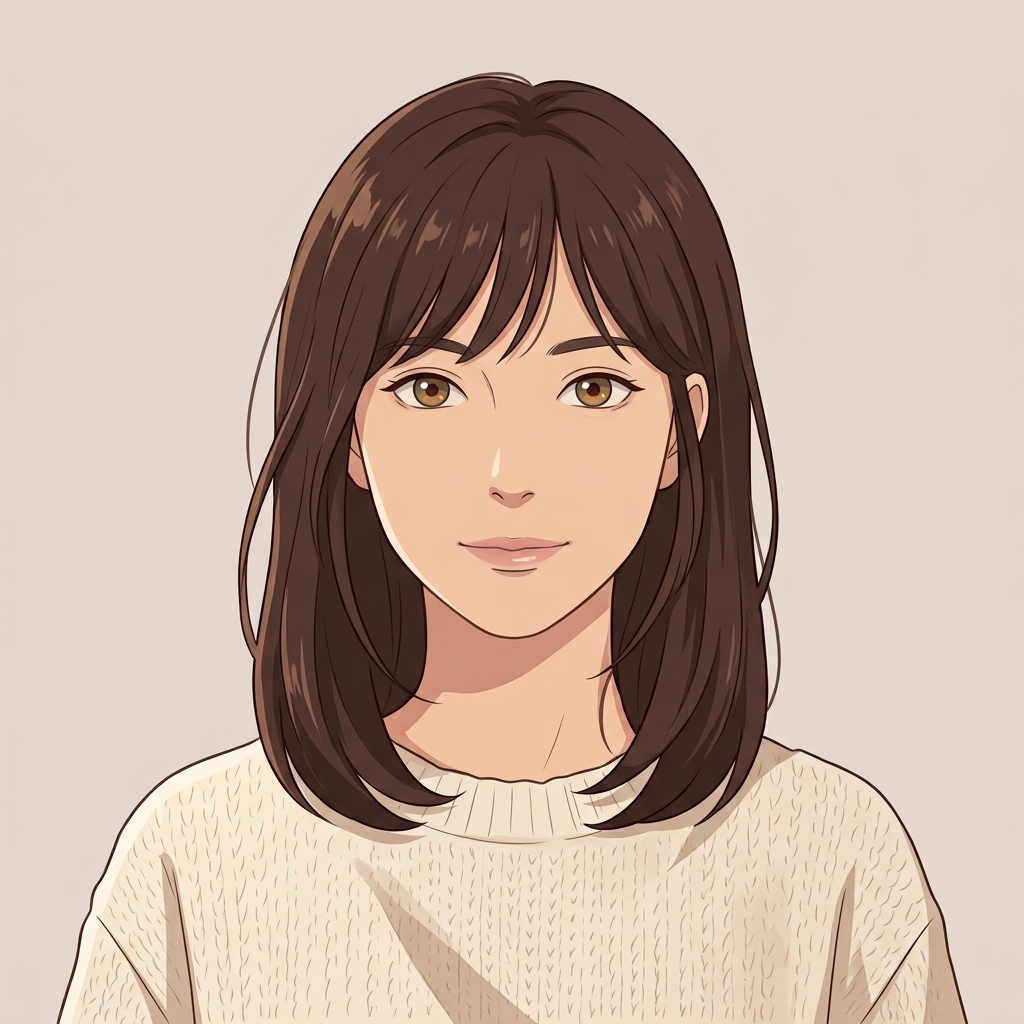
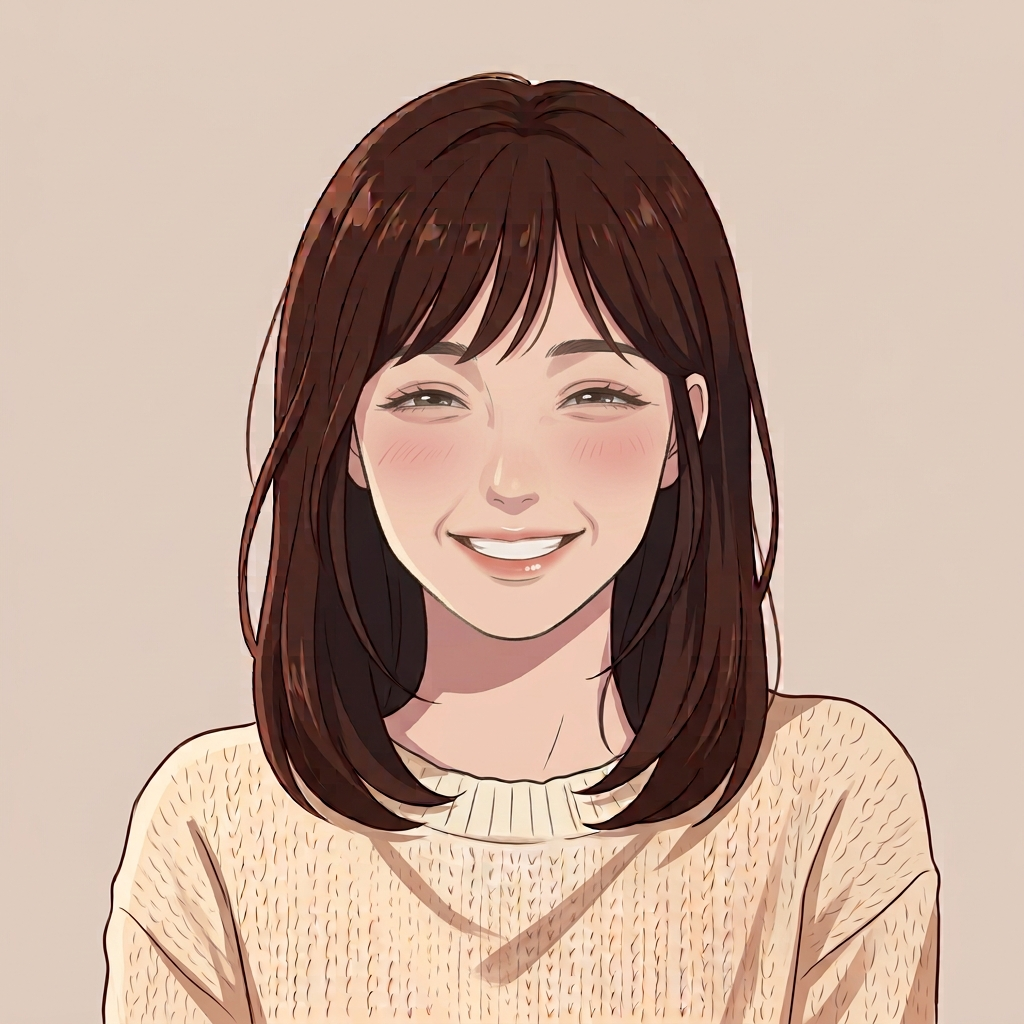
Лицо с каждым ответом персонажа и кеш file_id

diff --git a/bot/telegram_bot.py b/bot/telegram_bot.py
@@ -47,6 +47,9 @@ class Trainer:
         self.faces_dir = faces_dir
         self.sessions: dict[int, DialogueSession] = {}
         self._scenarios: dict[str, Scenario] = {default_scenario.id: default_scenario}
+        # Telegram хранит загруженный файл у себя: второй раз шлём по file_id,
+        # иначе каждый ход тратит время на загрузку полумегабайтной картинки.
+        self.face_file_ids: dict[str, str] = {}
 
     def scenario_by_id(self, scenario_id: str) -> Scenario:
         if scenario_id not in self._scenarios:
@@ -129,11 +132,20 @@ async def _send_face(message: Message, trainer: "Trainer", state: Any, caption: 
     """Лицо под текущее настроение. False — если картинки нет, текст отправит вызывающий."""
     if trainer.faces_dir is None:
         return False
+
     emotion = emotion_for_state(state)
+    cached = trainer.face_file_ids.get(emotion)
+    if cached is not None:
+        await message.answer_photo(cached, caption=caption[:1024])
+        return True
+
     path = face_path(emotion, trainer.faces_dir)
     if path is None:
         return False
-    await message.answer_photo(FSInputFile(path), caption=caption[:1024])
+
+    sent = await message.answer_photo(FSInputFile(path), caption=caption[:1024])
+    if sent.photo:
+        trainer.face_file_ids[emotion] = sent.photo[-1].file_id
     return True
 
 
@@ -273,7 +285,13 @@ async def on_text(message: Message) -> None:
         return
 
     trainer.persist(message.from_user.id, session)
-    await _send_long(message, f"{trainer.scenario.persona.name}: {reply}")
+    reply_text = f"{session.scenario.persona.name}: {reply}"
+    if len(reply_text) > 1024:
+        # Не влезает в подпись к фото — шлём картинку и текст отдельно.
+        await _send_face(message, trainer, session.state, "")
+        await _send_long(message, reply_text)
+    elif not await _send_face(message, trainer, session.state, reply_text):
+        await _send_long(message, reply_text)
 
     if session.is_over:
         await message.answer("Она закрыла тему. Когда будешь готов — /finish.")

diff --git a/README.md b/README.md
@@ -113,9 +113,10 @@ bot/telegram_bot.py             aiogram 3: команды и диалог
 сначала смотрит на слова в настроении («обижена», «слёзы»), потом на шкалы
 доверия и открытости.
 
-Лицо приходит в трёх местах: с первым сообщением после `/start`, по команде `/state`
-и в конце разговора перед разбором. Нет картинки — нет ошибки: бот просто пришлёт текст.
-Папку можно поменять через `FACES_DIR` в `.env`.
+Лицо приходит с каждым её ответом, с первым сообщением после `/start` и перед разбором
+в `/finish`. Нет картинки — нет ошибки: бот просто пришлёт текст. Папку можно поменять
+через `FACES_DIR` в `.env`. Загруженный файл кешируется по `file_id`, поэтому
+повторные отправки не тратят время на загрузку.
 
 ## Запуск на каждый день
 
